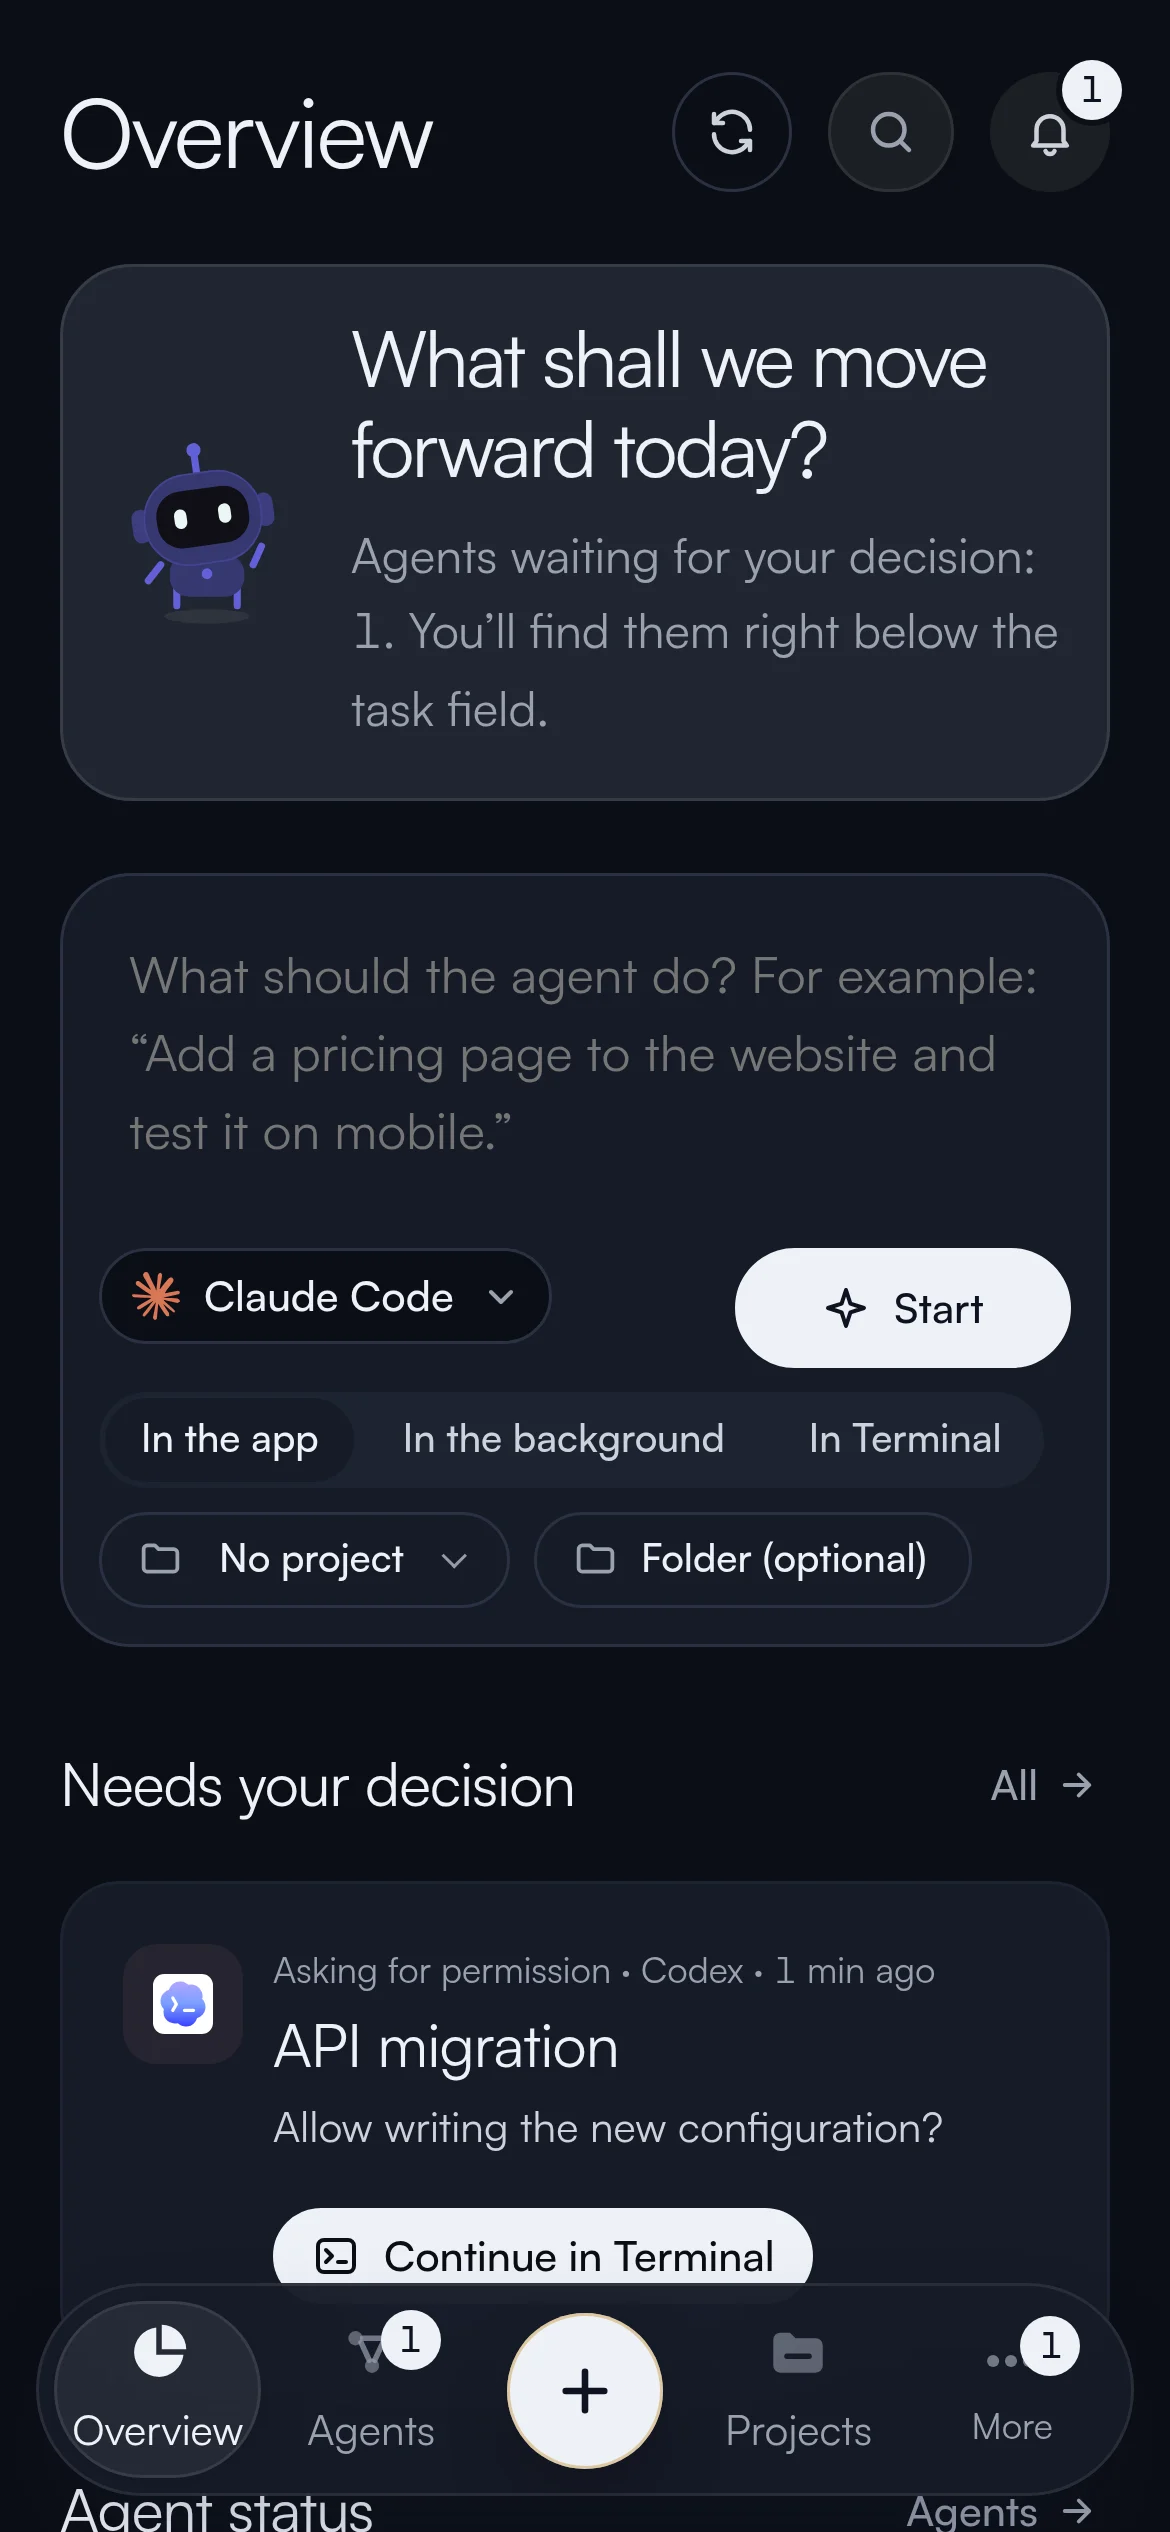
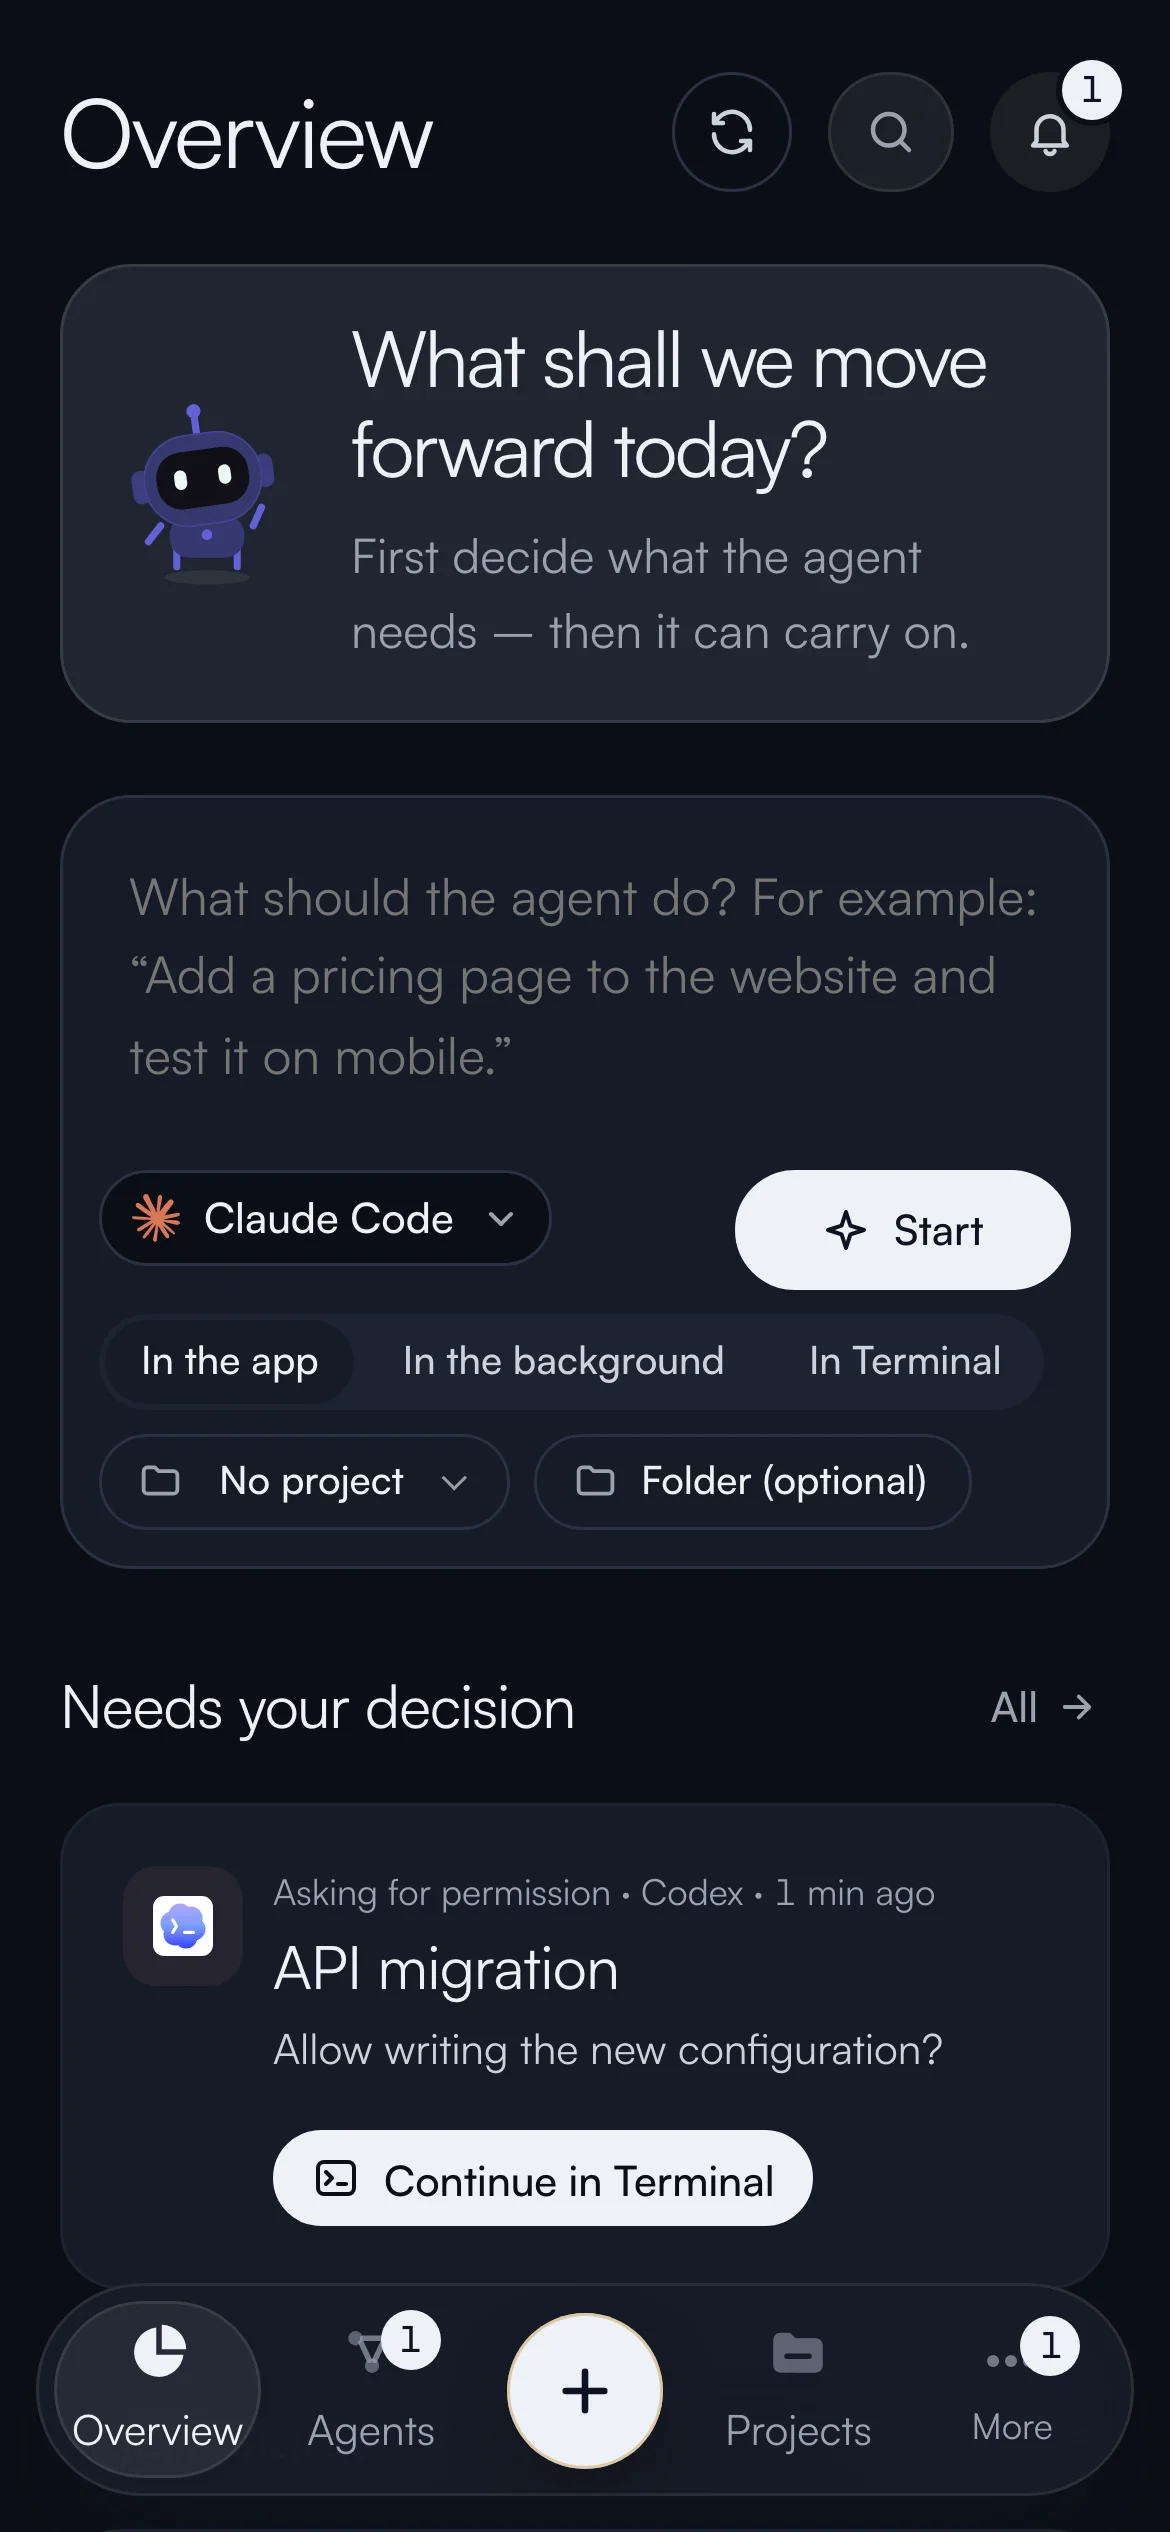
fix: refresh public overview captures without draft version

diff --git a/CHANGELOG.md b/CHANGELOG.md
@@ -1,5 +1,12 @@
 # Changelog
 
+## Připravované změny po 0.46.11 · nevydáno
+
+- PWA a Apple ikony nyní používají stejnou širokou hlavu s bílou anténou jako skutečně instalovaná Mac aplikace. Dřívější rastrové ikony měly odlišný tvar a fialovou anténu; CI je nově obrazově porovnává s oficiálním SVG.
+- Náhledy Přehledu na českém a anglickém webu jsou znovu zachycené ze současné ukázkové aplikace. Číslo neveřejné zdrojové verze je v marketingovém snímku skryté, aby nevypadalo jako dostupná aktualizace.
+
+**Dostupnost:** neměnný Draft `v0.46.11` tyto opravy neobsahuje. Nový binární kandidát vyžaduje vlastní tag, kompletní CI, audit příloh a živé UAT; samotný commit ani nasazení webu není vydání aplikace.
+
 ## 0.46.11 – 2026-10-13 · aktuální značka a bezpečnější distribuce
 
 **Dostupnost:** tato sekce popisuje obsah verze 0.46.11 ve zdrojovém kódu. Až úspěšné CI, nový neměnný tag, skutečné binárky, nezávislý SHA-256 audit, UAT a zveřejnění Preview potvrzují, že je aktualizace dostupná. Nestačí nový commit nebo neveřejný Draft. Stable Latest a Chrome Web Store se aktualizují samostatně.
